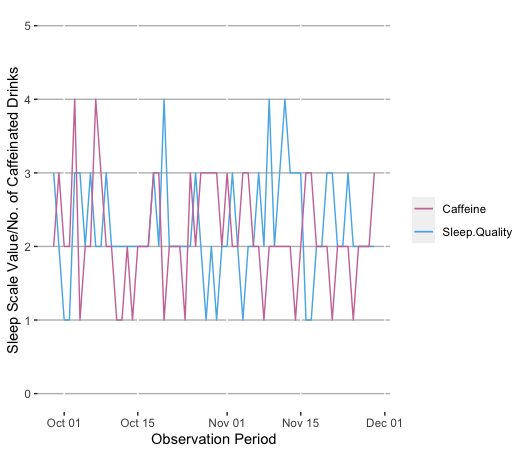
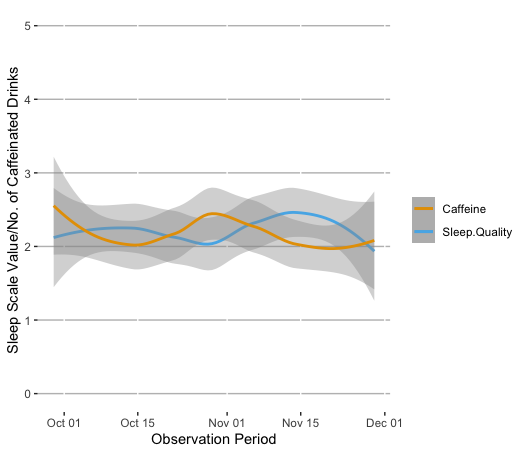
Finalizing project

Changed region(s): [[0.0911, 0.2159, 0.7287, 0.7093], [0.759, 0.4317, 0.8501, 0.5551]]

diff --git a/visualize_yourself/README.md b/visualize_yourself/README.md
@@ -44,6 +44,8 @@ First in order to get a sense for sleep quality over time, and to glean whether 
 
 The line graph shows that the majority of the observed night's sleep quality was within the 1 - 4 range. The median value was `2` while the mean value of `2.42`. The standard deviation was calculated to be `0.717` indicating that the range of the data was not very large, mostly concentrated around the median. The median value of `2` seems to be in line with my expectations. Raising an infant and getting used to being a parent means thay my sleep quality will take a hit by waking up more frequently at night to tend to their needs. However I think that conclusion doesn't take other factors into context.
 
+#### Screen time versus print time
+
 To answer the crux of the data collection I ran descriptive statistics on the totals of all print and screen times in order to understand my habits better statistically.
 
 ##### Screen time descriptive statistics
@@ -76,7 +78,7 @@ Knowing the statistics for total time observed however does not paint a full pic
 
 The graphs are by no means conclusive but they do shed so light on how sleep was rated given the previous evening's activities. True to the descriptive statistics, print time before sleep has few data points, but the majority of the observations do appear to have the `3` rating. What's interesting here is that a median of about 25 minutes seems to correlate to having 3 quality sleep which is above average for my in the observed period. If we extrapolate a hypothesis from this, it seems that the more time spent reading print before bed results in higher sleep quality. Does the inverse hold true for screen time? As it so happens, at least by analyzing the trend of the median we see negative correlation between the amount of time spent on a screened device and sleep quality. It didn't seem obvious on the outset but the data does indicate correlation. I calculated the correlation coefficient to have concrete data to back this up.
 
-#### Correlation coefficients
+##### Correlation coefficients
 ```
 # Correlation coefficient for sleep quality scale and screen time: 
 -0.263
@@ -87,11 +89,13 @@ The graphs are by no means conclusive but they do shed so light on how sleep was
 
 While we can't say definitively the correlation is there based on the weak correlation coefficients our eye tests are validated as we see positive and negative coefficients for print time and screen time, respectively.
 
+#### Diet
+
 Pivoting over to some variables, I'd like to take a look at diet affects sleep quality. First, I'd like to get a sense for when during the observed period I ate dinner most frequently.
 
 ![meal_times](./visualizations/meal_times.png)
 
-Judging by the graph the most frequent times are 20:30, 19:30, 20:00, and 17:30. There's a strong mix here and I think it's heavily influenced by having 3 night classes a week. However I'd like to zoom in on the sleep quality on evenings when I had a later dinner. So I sliced my dataframe by choosing all observations where the mealtime was greater than 19:30. Then I ran descriptive statistics on the subset's sleep quality scale values. I chose to do this over visualizing sleep quality and meal times in the same visualization as any data transformation would have muddled the data.
+Judging by the graph the most frequent times are 20:30, 19:30, 20:00, and 17:30. There's a strong mix here and I think it's heavily influenced by having 3 night classes a week. However I'd like to zoom in on the sleep quality on evenings when I had a later dinner. So I sliced my dataframe by choosing all observations where the mealtime was greater than 19:30. Then I ran descriptive statistics on the subset's sleep quality scale values. I chose to do this over visualizing sleep quality and meal times in the same visualization as any data transformation to accomodate duel y-axes may have muddled the data.
 
 ```
 #  Min.  1st Qu.  Median  Mean    3rd Qu.  Max. 
@@ -103,15 +107,50 @@ Judging by the graph the most frequent times are 20:30, 19:30, 20:00, and 17:30.
 
 Compared to the descriptive statistics of the full data, sleep quality with later meal times has a similar median (which is should since it contains all the data within the subset too). Interesting to see is the change in mean and standard deviation, as it looks like the data is concentrated more on the mean, which is itself lower. I didn't think meal times plays a significant factor into the quality of sleep, but we can see there is some jitter in the sleep quality of later meal times as compared to the full dataset.
 
+The final facet of the diet I wanted to examine was sleep quality and caffeine intake for the following day. To understand this graphic, some context is necessary. First since sleep quality scale refers to the night before, each plotted point is technically at a lag of -1. However since the caffeine intake measurement is taken for the day immediately following the observed night we have a direct relationship between the two points. I'm not implying causation but there is a direct relationship between corresponding points on the caffeine consumption and sleep quality vectors.
+
+![caffeine_quality](./visualizations/caffeine_quality.png)
+
+The graph illustrates what appears to be a relationship between caffeine intake and sleep quality. We can see that when the sleep quality was rated higher than the mean less caffeine was consumed. Of course we need to hedge this statement with a caveat in that the smoothed lines are not the absolute values. The smoothed lines are used to clarify the relationship, as the absolute values were difficult to compare. Addtionally, I calculated the correlation coefficient to establish whether or not we had a mathematical relationship.
+
+```
+# Correlation coefficient:
+-0.2910524
+```
+
+This value supportes the relationship the graph shows us, albeit signifying a weaker relationship. One aspect for which I did not account was how heightened caffeine consumption affect the next night's sleep. I did not have a good way to measure this or account for it. I would however say there is likely an effect, perhaps indicating that poor sleep is a compounding problem in another way.
+
+Finally the last factor in the diet category I wanted to examine was what effect alcohol consumption has on sleep quality. As I've mentioned in the data dictionary, it doesn't matter how much was consumed just whether or not it was consumed at all on a given day. This allows for the facet to be compared in a small multiple. I've plotted the alcohol consumed binary against sleep quality in a density chart. 
+
+![alcohol_by_quality](./visualizations/alcohol_by_quality.png)
+
+I'm not completely convinced there is much of a relationship here, in the sense that this factor could be more outsized than others. It seems the nights where I've consumed no alcohol didn't have as noticeable an effect. It seems the scale values become more deeply entrenched and more concentrated in the middle. That being said there is extensive literature indicating that alcohol does cause more disruption to sleep, so I am not surprised to see a difference in the graphs.
+
+#### Health
+
+In order to gauge what effect my mental and physical wellbeing had on my sleep quality I observed my mental wellness via two scales: anxiety/stress and emotional fatigue. For additional details I invite you to reference the data dictionary. As an aside, I will not be graphing any data related to physical health as for the entire observation period I was healthy. First I'd like to plot my mental health over time. As a reminder the lower the number the better, which is an inverse to my sleep quality scale. Like I did with caffeine these lines are smoothed for clarity.
+
+![mental_health](./visualizations/mental_health.png)
+
+It seems that emotional fatigue and stress/anxiety track similarly even though the categories are designed to satisfy different criteria. What I'd then like to do is add a smoothed line in for sleep quality to see what relationships exist there.
+
+![sleep_mentalhealth](./visualizations/sleep_mentalhealth.png)
+
+What's interesting to see when all three lines are graphed together is that there doesn't seem to be much of a relationship until mid-way through November. I'm not sure what we can glean from this since the observation period is so small. I'd be curious to see what would be observed had I been able to carry this on longer. That being said mental health is inseparable from a person's overall wellbeing, however I'm not convinced this supercedes screen vs. print usage before bed.
+
+
 ### Conclusion
 
+After reviewing the data and considering all other factors I observed, I think the biggest factor in determining the quality of sleep was the activity I did before bed. While there is no doubt that the sub-categories I tracked over the observation period had an impact into the quality of my sleep there doesn't seem to be a consistent relationship as there is in pre-sleep activity.
+
+I think it is important to note that this claim is the result of the most consistent relationship in the data. There is no surefire way without additional serious investigations to unequivocally assert that claim. If I were to do this long term, I think I would like to try and come up with additional factors to track like times when I fall asleep, how much I move when I fall asleep, etc. Additionally there was no way to control for instances that cannot be tracked or quantified such as waking up to soothe a baby or staying up late to work on a mid-term. 
 
 
 ### Reflection
 
 Looking back I think there are some other variables I would have tried to log. Though it may be inaccurate logging the time I fell asleep would have also been a valuable data point. Accounting for my infant son would also also be a necessary contextual point since I normally don't wake up during the night at all. I had also tried to log personal responsibilities but while that was ambitious it was impossible to truly quantify. 
 
-While this project was a good exercise in essentially running a time study and analyzing the results, I think the data wasn't that interesting. I think I would have preferred a little more structure or something more specific to analyze. I think I would have also appreciated a little more class time dedicated to setting up a time study and discussing the output/results thereof. A little more time on business intelligence may have also helped identify what was important. Either way I do feel the graphics I was able to produce are concise and highly descriptive.
+While this project was a good exercise in essentially running a time study and analyzing the results, I think the data wasn't that interesting. I think I would have preferred to have a more refined question or something more specific to analyze. I think I would have also appreciated a little more class time dedicated to setting up a time study and discussing the output/results thereof. A little more time on business intelligence may have also helped identify what was important. Either way I do feel the graphics I was able to produce are concise and highly descriptive.
 
 ### Links and Resources
 
